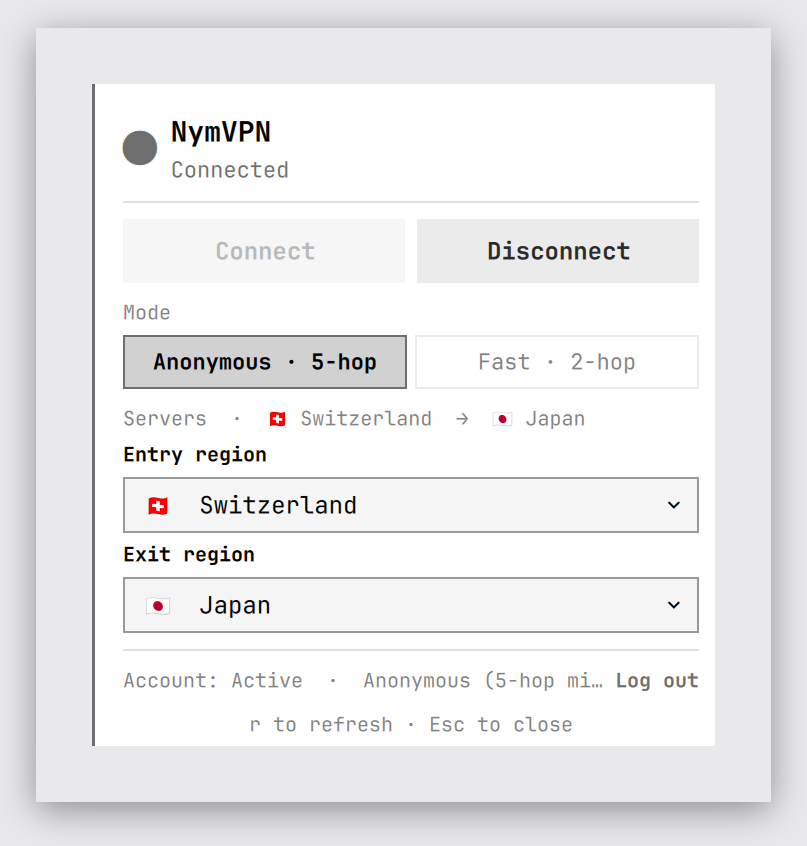
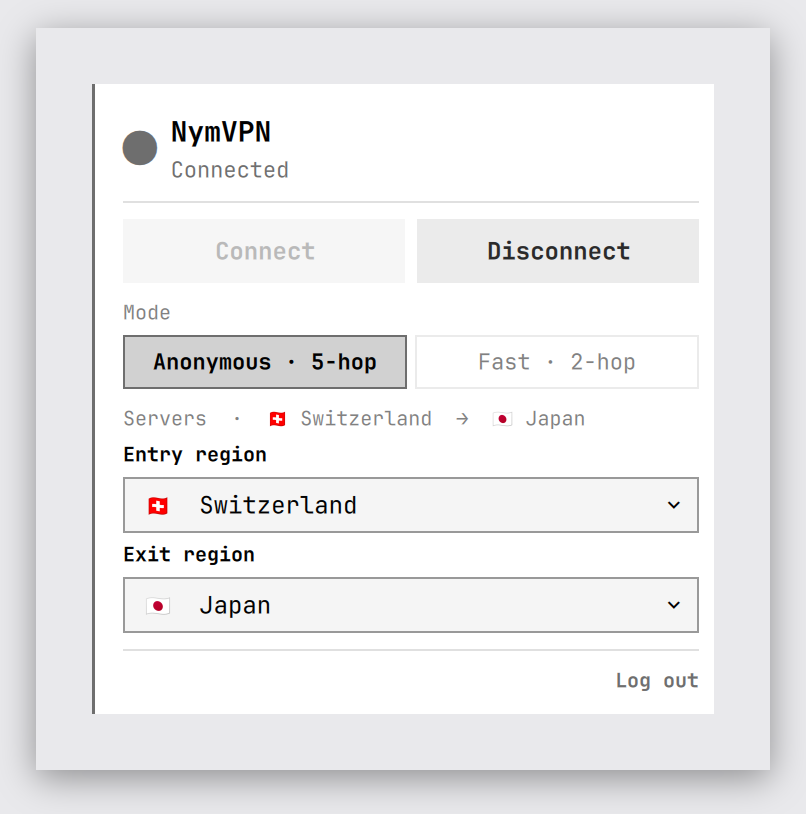
feat(panel): drop account-state/mode summary line and footer hint
Remove the redundant 'Account: <state> · <mode>' summary row (connection
state already shows in the header, mode in the Mode toggle) and the
'r to refresh · Esc to close' footer. The Log out action is kept and now
stands alone, shown only when an account is configured. Regenerated the
preview screenshot to match.

diff --git a/Panel.qml b/Panel.qml
@@ -629,37 +629,14 @@ Panel {
           spacing: Style.spacing.sm
           visible: root.installed && !root.daemonDown
 
-          // Summary row: account state (left) + Log out action (right, only
-          // when an account is configured).
+          // Log out action (right-aligned, only when an account is
+          // configured). The redundant account-state / mode summary line was
+          // removed -- connection state lives in the header and mode in the
+          // Mode toggle above.
           Item {
             width: parent.width
-            implicitHeight: acctLabel.implicitHeight
-
-            Text {
-              id: acctLabel
-              anchors.left: parent.left
-              anchors.right: acctAction.left
-              anchors.rightMargin: Style.spacing.sm
-              anchors.verticalCenter: parent.verticalCenter
-              elide: Text.ElideRight
-              text: {
-                var acct = root.accountFetched
-                  ? (root.account.stored ? "Account: " + (root.account.state !== "" ? root.account.state : "active") : "Account: not configured")
-                  : "Account: tap to check"
-                return acct + "  ·  " + Model.modeLabel(root.twoHop)
-              }
-              color: acctMouse.containsMouse ? root.contentForeground : Color.muted
-              font.family: root.contentFontFamily
-              font.pixelSize: Style.font.caption
-
-              MouseArea {
-                id: acctMouse
-                anchors.fill: parent
-                hoverEnabled: true
-                cursorShape: Qt.PointingHandCursor
-                onClicked: root.refreshAccount()
-              }
-            }
+            implicitHeight: root.loggedIn ? acctAction.implicitHeight : 0
+            visible: root.loggedIn
 
             Text {
               id: acctAction
@@ -764,15 +741,6 @@ Panel {
           font.pixelSize: Style.font.caption
         }
 
-        // Footer hint
-        Text {
-          width: parent.width
-          horizontalAlignment: Text.AlignHCenter
-          text: "r to refresh · Esc to close"
-          color: Color.muted
-          font.family: root.contentFontFamily
-          font.pixelSize: Style.font.caption
-        }
       }
     }
   }
